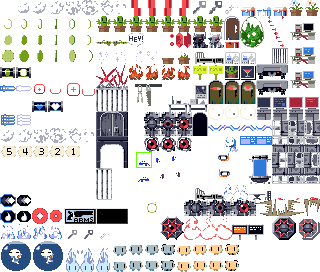
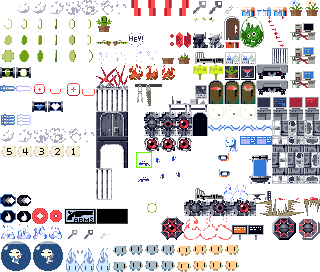
I fogor what was changed

Changed region(s): [[0.3438, 0.0588, 0.7188, 0.1176], [0.5312, 0.2353, 0.5938, 0.2941]]

diff --git a/src/NpcAct040.cpp b/src/NpcAct040.cpp
@@ -1643,12 +1643,12 @@ void ActNpc057(NPCHAR *npc)
 	switch (npc->act_no)
 	{
 		case 0:
-			deg = Random(0, 0xFF);
+			deg = -50;
 			npc->xm = GetCos(deg);
 			deg += 0x40;
 			npc->tgt_x = npc->x + (GetCos(deg) * 8);
 
-			deg = Random(0, 0xFF);
+			deg = 30;
 			npc->ym = GetSin(deg);
 			deg += 0x40;
 			npc->tgt_y = npc->y + (GetSin(deg) * 8);
@@ -1683,116 +1683,27 @@ void ActNpc057(NPCHAR *npc)
 				npc->ym = 0x200;
 			if (npc->ym < -0x200)
 				npc->ym = -0x200;
-
-			if (npc->shock)
-			{
-				npc->act_no = 2;
-				npc->act_wait = 0;
-
-				if (npc->direct == 2)
-					npc->xm = -0x200;
-				else
-					npc->xm = 0x200;
-
-				npc->ym = 0;
-			}
-
-			break;
-
-		case 2:
-			if (gMC.x < npc->x)
-				npc->direct = 0;
-			else
-				npc->direct = 2;
-
-			if (npc->y > gMC.y + (48 * 0x200))
-			{
-				if (gMC.x < npc->x)
-					npc->xm += 0x10;
-				if (gMC.x > npc->x)
-					npc->xm -= 0x10;
-			}
-			else
-			{
-				if (gMC.x < npc->x)
-					npc->xm -= 0x10;
-				if (gMC.x > npc->x)
-					npc->xm += 0x10;
-			}
-
-			if (gMC.y < npc->y)
-				npc->ym -= 0x10;
-			if (gMC.y > npc->y)
-				npc->ym += 0x10;
-
-			if (npc->shock)
-			{
-				npc->ym += 0x20;
-				npc->xm = 0;
-			}
-
-			if (npc->xm < 0 && npc->flag & 1)
-				npc->xm = 0x200;
-			if (npc->xm > 0 && npc->flag & 4)
-				npc->xm = -0x200;
-
-			if (npc->ym < 0 && npc->flag & 2)
-				npc->ym = 0x200;
-			if (npc->ym > 0 && npc->flag & 8)
-				npc->ym = -0x200;
-
-			if (npc->xm > 0x5FF)
-				npc->xm = 0x5FF;
-			if (npc->xm < -0x5FF)
-				npc->xm = -0x5FF;
-
-			if (npc->ym > 0x5FF)
-				npc->ym = 0x5FF;
-			if (npc->ym < -0x5FF)
-				npc->ym = -0x5FF;
-
-			break;
 	}
 
 	npc->x += npc->xm;
 	npc->y += npc->ym;
 
-	RECT rect_left[5] = {
-		{96, 80, 128, 112},
-		{128, 80, 160, 112},
-		{160, 80, 192, 112},
-		{192, 80, 224, 112},
-		{224, 80, 256, 112},
+	RECT rect[3] = {
+		{192, 16, 200, 24},
+		{200, 16, 208, 24},
+		{208, 16, 216, 24}
 	};
 
-	RECT rect_right[5] = {
-		{96, 112, 128, 144},
-		{128, 112, 160, 144},
-		{160, 112, 192, 144},
-		{192, 112, 224, 144},
-		{224, 112, 256, 144},
-	};
-
-	if (npc->shock)
+	if (++npc->ani_wait > 2)
 	{
-		npc->ani_no = 4;
-	}
-	else
-	{
-		if (++npc->ani_wait > 1)
-		{
-			npc->ani_wait = 0;
-			++npc->ani_no;
-		}
-
-		if (npc->ani_no > 1)
-			npc->ani_no = 0;
+		npc->ani_wait = 0;
+		++npc->ani_no;
 	}
 
-	if (npc->direct == 0)
-		npc->rect = rect_left[npc->ani_no];
-	else
-		npc->rect = rect_right[npc->ani_no];
+	if (npc->ani_no > 2)
+		npc->ani_no = 0;
+
+	npc->rect = rect[npc->ani_no];
 }
 
 // Basu (Egg Corridor)

diff --git a/src/NpcAct000.cpp b/src/NpcAct000.cpp
@@ -1540,15 +1540,8 @@ void ActNpc015(NPCHAR *npc)
 // Save point
 void ActNpc016(NPCHAR *npc)
 {
-	RECT rect[8] = {
+	RECT rect[1] = {
 		{96, 16, 112, 32},
-		{112, 16, 128, 32},
-		{128, 16, 144, 32},
-		{144, 16, 160, 32},
-		{160, 16, 176, 32},
-		{176, 16, 192, 32},
-		{192, 16, 208, 32},
-		{208, 16, 224, 32},
 	};
 
 	int i;
@@ -1576,96 +1569,32 @@ void ActNpc016(NPCHAR *npc)
 			break;
 	}
 
-	if (++npc->ani_wait > 2)
-	{
-		npc->ani_wait = 0;
-		++npc->ani_no;
-	}
-
-	if (npc->ani_no > 7)
-		npc->ani_no = 0;
-
 	npc->ym += 0x40;
 	if (npc->ym > 0x5FF)
 		npc->ym = 0x5FF;
 
 	npc->y += npc->ym;
 
-	npc->rect = rect[npc->ani_no];
+	npc->rect = rect[0];
 }
 
 // Health refill
 void ActNpc017(NPCHAR *npc)
 {
-	RECT rect[2] = {
+	RECT rect[1] = {
 		{288, 0, 304, 16},
-		{304, 0, 320, 16},
 	};
 
-	int a;
+	npc->rect = rect[0];
 
 	switch (npc->act_no)
 	{
 		case 0:
+			SetNpChar(57, npc->x, npc->y, 0, 0, 0, NULL, 0x100);
 			npc->act_no = 1;
-
-			if (npc->direct == 2)
-			{
-				npc->ym = -0x200;
-
-				for (a = 0; a < 4; ++a)
-					SetNpChar(4, npc->x + (Random(-12, 12) * 0x200), npc->y + (Random(-12, 12) * 0x200), Random(-341, 341), Random(-0x600, 0), 0, NULL, 0x100);
-			}
-
-			// Fallthrough
 		case 1:
-			a = Random(0, 30);
-
-			if (a < 10)
-				npc->act_no = 2;
-			else if (a < 25)
-				npc->act_no = 3;
-			else
-				npc->act_no = 4;
-
-			npc->act_wait = Random(0x10, 0x40);
-			npc->ani_wait = 0;
-			break;
-
-		case 2:
-			npc->rect = rect[0];
-
-			if (--npc->act_wait == 0)
-				npc->act_no = 1;
-
-			break;
-
-		case 3:
-			if (++npc->ani_wait % 2)
-				npc->rect = rect[0];
-			else
-				npc->rect = rect[1];
-
-			if (--npc->act_wait == 0)
-				npc->act_no = 1;
-
-			break;
-
-		case 4:
-			npc->rect = rect[1];
-
-			if (--npc->act_wait == 0)
-				npc->act_no = 1;
-
 			break;
 	}
-
-	npc->ym += 0x40;
-
-	if (npc->ym > 0x5FF)
-		npc->ym = 0x5FF;
-
-	npc->y += npc->ym;
 }
 
 // Door

diff --git a/src/TextScr.cpp b/src/TextScr.cpp
@@ -9,6 +9,7 @@
 
 #include "WindowsWrapper.h"
 
+
 #include "Backends/Misc.h"
 #include "ArmsItem.h"
 #include "Boss.h"
@@ -577,14 +578,9 @@ void PutTextScript(void)
 
 	if (gTS.mode == 6)
 	{
-		if (gTS.wait < 2)
-			i = (WINDOW_HEIGHT - 96) + (2 - gTS.wait) * 4;
-		else
-			i = WINDOW_HEIGHT - 96;
-
-		PutBitmap3(&grcFull, PixelToScreenCoord((WINDOW_WIDTH / 2) + 56), PixelToScreenCoord(i), &rect_yesno, SURFACE_ID_TEXT_BOX);
+		PutBitmap3(&grcFull, PixelToScreenCoord((WINDOW_WIDTH / 2) + 30), PixelToScreenCoord(WINDOW_HEIGHT - 104), &rect_yesno, SURFACE_ID_TEXT_BOX);
 		if (gTS.wait == 16)
-			PutBitmap3(&grcFull, PixelToScreenCoord((gTS.select * 41) + (WINDOW_WIDTH / 2) + 51), PixelToScreenCoord(WINDOW_HEIGHT - 86), &rect_cur, SURFACE_ID_TEXT_BOX);
+			PutBitmap3(&grcFull, PixelToScreenCoord((gTS.select * 41) + (WINDOW_WIDTH / 2) + 25), PixelToScreenCoord(WINDOW_HEIGHT - 94), &rect_cur, SURFACE_ID_TEXT_BOX);
 	}
 }
 

diff --git a/src/NpcAct060.cpp b/src/NpcAct060.cpp
@@ -1270,9 +1270,9 @@ void ActNpc068(NPCHAR *npc)
 
 	RECT rect_left[9] = {
 		{0, 0, 40, 24},
-		{0, 48, 40, 72},
+		{0, 48, 40, 72}, // Walking 1
 		{0, 0, 40, 24},
-		{40, 48, 80, 72},
+		{40, 48, 80, 72}, // Walking 2
 		{0, 0, 40, 24},
 		{80, 48, 120, 72},
 		{120, 48, 160, 72},
@@ -1282,9 +1282,9 @@ void ActNpc068(NPCHAR *npc)
 
 	RECT rect_right[9] = {
 		{0, 24, 40, 48},
-		{0, 72, 40, 96},
+		{0, 72, 40, 96}, // Walking 1
 		{0, 24, 40, 48},
-		{40, 72, 80, 96},
+		{40, 72, 80, 96}, // Walking 2
 		{0, 24, 40, 48},
 		{80, 72, 120, 96},
 		{120, 72, 160, 96},
@@ -1329,7 +1329,7 @@ void ActNpc069(NPCHAR *npc)
 			{
 				npc->direct = 0;
 			}
-			if(npc->flag & 1) // Touching a left wall
+			if (npc->flag & 1) // Touching a left wall
 			{
 				npc->direct = 2;
 			}

diff --git a/src/Backends/Audio/miniaudio.cpp b/src/Backends/Audio/miniaudio.cpp
@@ -12,6 +12,7 @@
 #define MA_API static
 #include "../../../external/miniaudio.h"
 
+
 #ifdef EXTRA_SOUND_FORMATS
 #include "../../ExtraSoundFormats.h"
 #endif

diff --git a/src/Sound.cpp b/src/Sound.cpp
@@ -19,6 +19,7 @@ equivalents.
 
 #include "WindowsWrapper.h"
 
+
 #include "Backends/Audio.h"
 #ifdef EXTRA_SOUND_FORMATS
 #include "ExtraSoundFormats.h"

diff --git a/src/Backends/Audio/WiiU-Software.cpp b/src/Backends/Audio/WiiU-Software.cpp
@@ -12,6 +12,7 @@
 #include <sndcore2/voice.h>
 #include <sndcore2/drcvs.h>
 
+
 #ifdef EXTRA_SOUND_FORMATS
 #include "../../ExtraSoundFormats.h"
 #endif

diff --git a/src/Main.cpp b/src/Main.cpp
@@ -7,6 +7,7 @@
 
 #include "WindowsWrapper.h"
 
+
 #include "Backends/Misc.h"
 #include "Bitmap.h"
 #include "CommonDefines.h"

diff --git a/src/Stage.cpp b/src/Stage.cpp
@@ -7,6 +7,7 @@
 
 #include "WindowsWrapper.h"
 
+
 #include "Back.h"
 #include "Boss.h"
 #include "Bullet.h"
